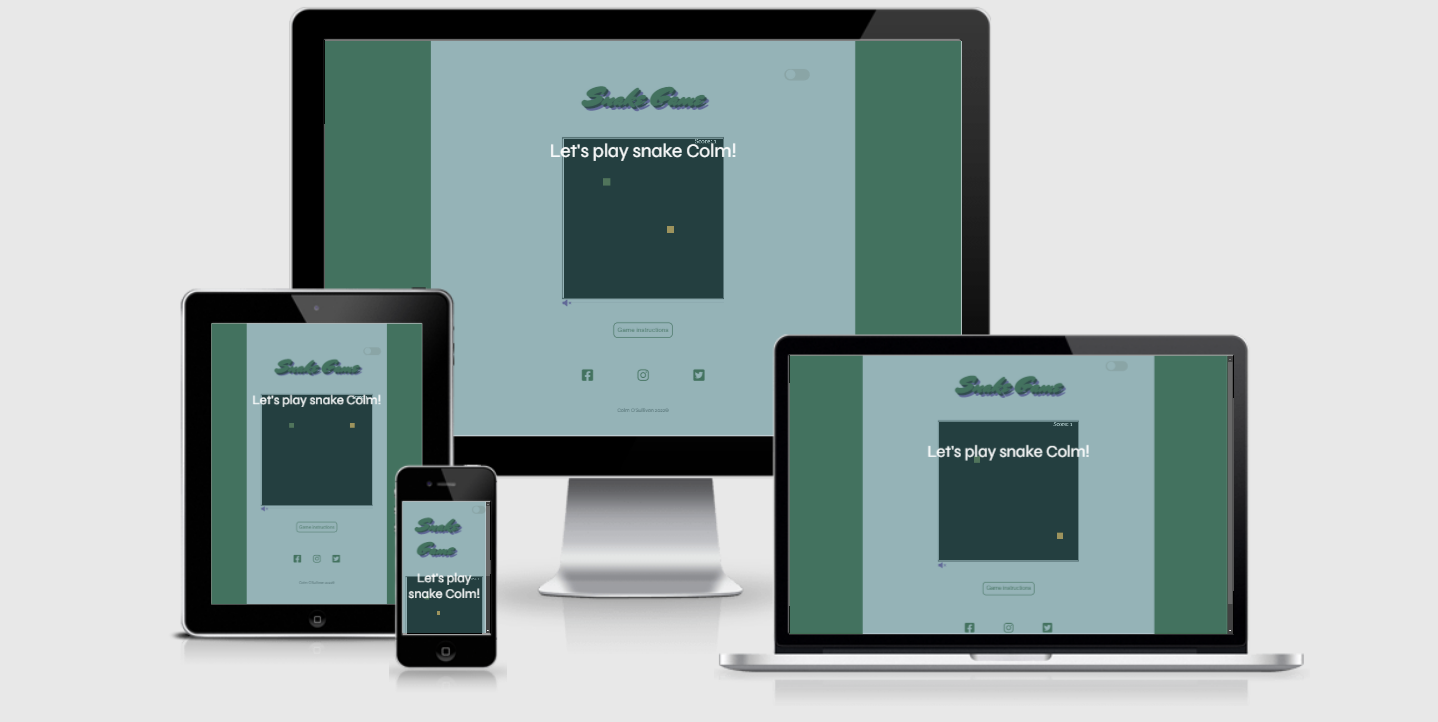
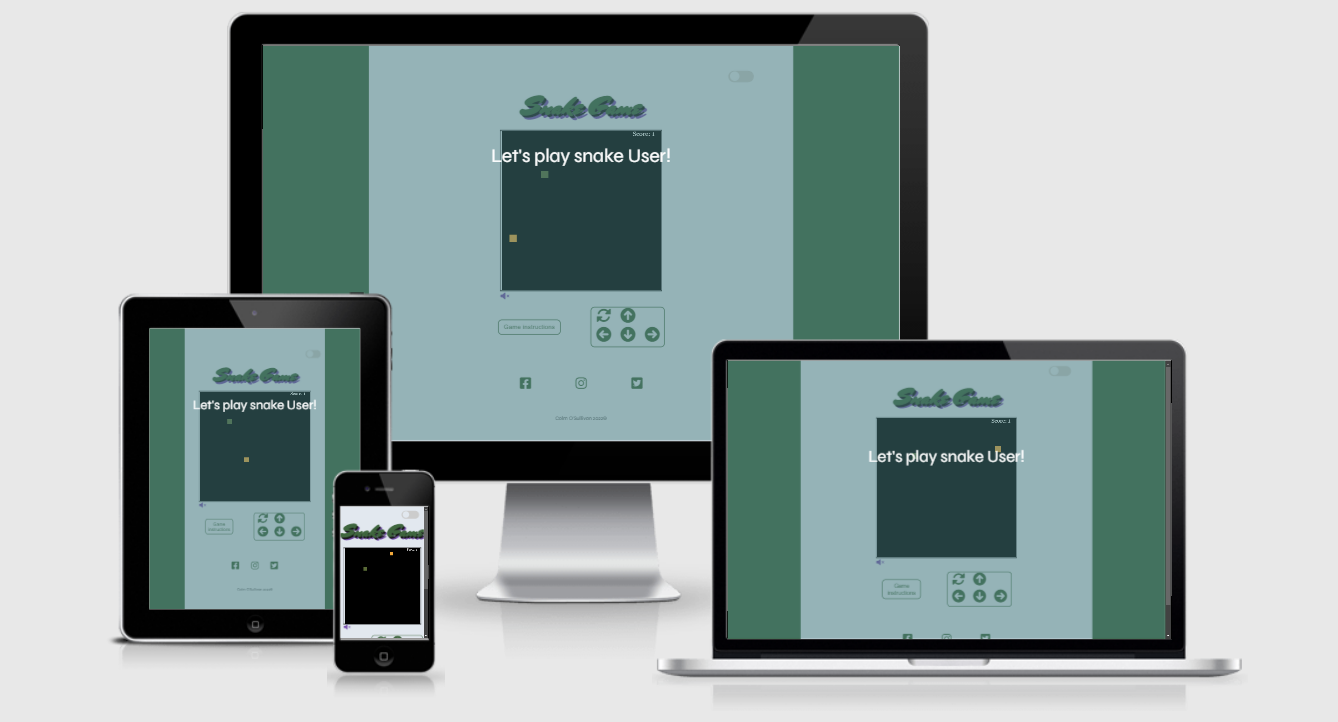
Add buttons comments to features and image

diff --git a/README.md b/README.md
@@ -89,7 +89,10 @@ This is the main marketing website for Code Institute. It is designed to be resp
 
 ### Current Features
 
--   Responsive on all device sizes with mobile site first design in mind with grid containors used to keep focus of content in center of screen as device screen size increases.
+- Responsive on all device sizes with mobile site first design in mind with grid containors used to keep focus of content in center of screen as device screen size increases.
+
+- Though not originally part of the original design for the site with this sites repsonsiveness it was decided to add buttons to ensure that all users can play game on various screens that do not support keyboards. 
+![buttons](assets/readme-images/mobile-buttons.png)
 
 - Header is designed with retro style in mind to tie user in with game 'classic' nature. This is most highlighted when user switches to dark mode:  
 ![header](assets/readme-images/snake-header.png)
